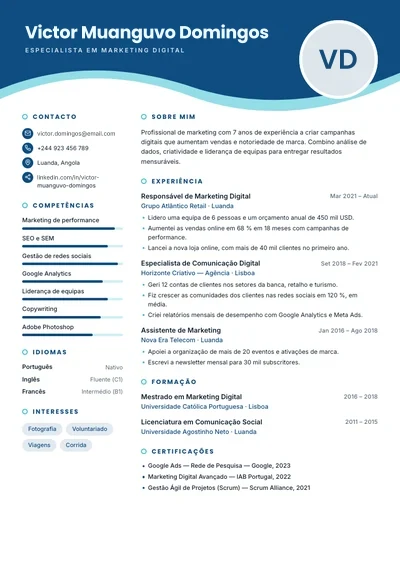
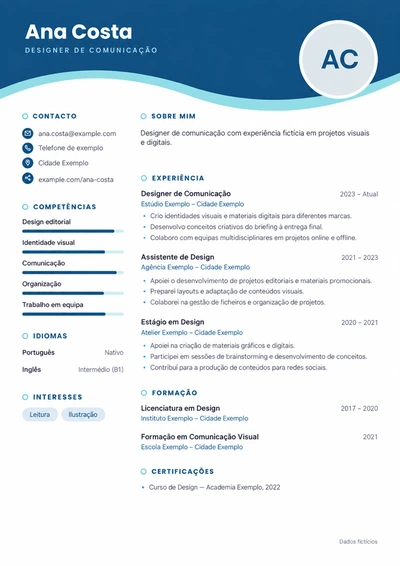
4.0v

diff --git a/privacidade.html b/privacidade.html
@@ -31,6 +31,7 @@
       <div class="container">
         <h1>Política de <em>privacidade.</em></h1>
         <p class="legal-meta">Versão 1.0 — Última atualização: 5 de outubro de 2026</p>
+        <p class="legal-meta">Contacto fictício de demonstração: apoio@example.com.</p>
         <nav class="legal-tabs" aria-label="Documentos legais">
         <a href="termos.html">Termos de utilização</a>
         <a href="privacidade.html" aria-current="page">Política de privacidade</a>
@@ -63,7 +64,7 @@
         <section id="s1">
           <h2><span class="n">01</span>Quem é responsável e como contactar</h2>
           <p>A Cv Dossier, empresa estabelecida em Angola, é responsável pelo tratamento dos dados pessoais relacionado com a prestação do CvDossier. Esta política explica como são utilizados os dados na aplicação para Android e iOS e no atendimento relacionado com o serviço.</p>
-          <p>O nosso site é <a href="https://cvdossier.app" target="_blank" rel="noopener">https://cvdossier.app</a>. Para questões de privacidade, pedidos sobre os teus dados ou apoio à utilização, escreve para <a href="mailto:geralcvdossier@gmail.com">geralcvdossier@gmail.com</a>.</p>
+          <p>O nosso site é <a href="https://cvdossier.app" target="_blank" rel="noopener">https://cvdossier.app</a>. Para questões de privacidade, pedidos sobre os teus dados ou apoio à utilização, escreve para <a href="mailto:apoio@example.com">apoio@example.com</a>.</p>
           <p>O CvDossier permite criar, editar, guardar e exportar currículos e cartas de apresentação, de motivação e de recomendação. Os Termos de Utilização explicam as condições do serviço, incluindo a versão gratuita com anúncios e a assinatura Premium.</p>
         </section>
         <section id="s2">
@@ -93,7 +94,7 @@
         <section id="s6">
           <h2><span class="n">06</span>Fornecedores e mensagens operacionais</h2>
           <p>O Supabase participa na autenticação e no armazenamento dos dados da conta, documentos e fotografias. O Resend participa no envio de e-mails operacionais, como mensagens de confirmação e recuperação de acesso, tratando o endereço do destinatário e o conteúdo necessário ao envio.</p>
-          <p>As mensagens automáticas podem ser enviadas por Cv Dossier &lt;noreply@cvdossier.app&gt;. Esse endereço não é o canal de apoio. Para obter resposta, utiliza <a href="mailto:geralcvdossier@gmail.com">geralcvdossier@gmail.com</a>.</p>
+          <p>As mensagens automáticas podem ser enviadas por Cv Dossier &lt;noreply@example.com&gt;. Esse endereço não é o canal de apoio. Para obter resposta, utiliza <a href="mailto:apoio@example.com">apoio@example.com</a>.</p>
           <p>Ao escreveres para o apoio, o teu endereço de e-mail, a mensagem e os anexos que enviares são tratados para atender o pedido. Esse canal utiliza Gmail, serviço da Google. Não envies palavras-passe, códigos de acesso ou informação que não seja necessária à resolução da questão.</p>
           <p>Os fornecedores podem recorrer a outros prestadores nas condições dos seus serviços. A sua intervenção não afasta as obrigações da Cv Dossier sobre escolha de fornecedores, legitimidade do tratamento e proteção dos dados.</p>
           <p>Podes consultar informação dos fornecedores em <a href="https://supabase.com/privacy" target="_blank" rel="noopener">https://supabase.com/privacy</a>, <a href="https://resend.com/legal/privacy-policy" target="_blank" rel="noopener">https://resend.com/legal/privacy-policy</a> e <a href="https://policies.google.com/privacy?hl=pt" target="_blank" rel="noopener">https://policies.google.com/privacy?hl=pt</a>.</p>
@@ -122,7 +123,7 @@
         <section id="s10">
           <h2><span class="n">10</span>Tratamento internacional e outras divulgações</h2>
           <p>A utilização de fornecedores de tecnologia pode envolver tratamento de dados fora de Angola ou do Brasil. A localização do utilizador ou do envio de um e-mail não significa que todas as operações dos fornecedores ocorram nesse mesmo país.</p>
-          <p>As transferências internacionais estão sujeitas às condições e garantias exigidas pela legislação aplicável, incluindo as regras angolanas e, quando pertinente, os mecanismos previstos na LGPD e na regulamentação da ANPD. A contratação de um fornecedor não substitui essas exigências. Podes pedir informação sobre os destinatários, as transferências relacionadas com os teus dados e as garantias aplicáveis através de <a href="mailto:geralcvdossier@gmail.com">geralcvdossier@gmail.com</a>.</p>
+          <p>As transferências internacionais estão sujeitas às condições e garantias exigidas pela legislação aplicável, incluindo as regras angolanas e, quando pertinente, os mecanismos previstos na LGPD e na regulamentação da ANPD. A contratação de um fornecedor não substitui essas exigências. Podes pedir informação sobre os destinatários, as transferências relacionadas com os teus dados e as garantias aplicáveis através de <a href="mailto:apoio@example.com">apoio@example.com</a>.</p>
           <p>Podemos divulgar informações quando isso for necessário para cumprir uma obrigação legal, responder legitimamente a uma autoridade competente ou exercer direitos em processo, limitando a divulgação ao que for legalmente exigido ou permitido. Não há, por esta cláusula, autorização para divulgar indiscriminadamente os teus documentos.</p>
         </section>
         <section id="s11">
@@ -137,14 +138,14 @@
           <p>Podes iniciar a eliminação da conta nas definições da aplicação. O procedimento prevê 30 dias durante os quais podes cancelar o pedido nas próprias definições. Entrar novamente na conta não cancela o pedido.</p>
           <p>Depois desse período, o servidor bloqueia o acesso aos dados e o processo de limpeza remove as fotografias, a conta e os documentos associados. O fim do período de cancelamento não significa que todas as operações de limpeza se concluam no mesmo instante.</p>
           <p>Antes de pedires a eliminação, exporta os documentos que pretendes conservar. As cópias já exportadas ou partilhadas não são apagadas automaticamente. Se tens uma assinatura Premium, gere também a sua continuidade ou o cancelamento na loja em que a contrataste; a eliminação da conta não substitui esse procedimento nem depende de o realizares primeiro.</p>
-          <p>Para pedir a eliminação sem utilizar a aplicação, ou se não conseguires aceder à conta, escreve para <a href="mailto:geralcvdossier@gmail.com">geralcvdossier@gmail.com</a> e indica que pretendes eliminar a tua conta CvDossier. Podemos solicitar apenas as informações necessárias para confirmar a identidade e evitar a eliminação indevida da conta de outra pessoa. Não envies a tua palavra-passe.</p>
+          <p>Para pedir a eliminação sem utilizar a aplicação, ou se não conseguires aceder à conta, escreve para <a href="mailto:apoio@example.com">apoio@example.com</a> e indica que pretendes eliminar a tua conta CvDossier. Podemos solicitar apenas as informações necessárias para confirmar a identidade e evitar a eliminação indevida da conta de outra pessoa. Não envies a tua palavra-passe.</p>
           <p>O procedimento de 30 dias não limita direitos legais que exijam outra resposta, como a eliminação ou o bloqueio de um tratamento ilícito. Esses pedidos são avaliados segundo o direito e o prazo que efetivamente lhes correspondem. A eventual conservação de informações por fundamento legal continua limitada nos termos da secção 11.</p>
         </section>
         <section id="s13">
           <h2><span class="n">13</span>Direitos sobre os dados pessoais</h2>
           <p>De acordo com a legislação aplicável e as condições de cada direito, podes pedir informação sobre o tratamento, aceder aos teus dados, corrigir informações inexatas ou incompletas e solicitar a eliminação ou o bloqueio de dados cujo tratamento não seja legítimo. Podes também exercer os direitos de oposição que a lei te reconheça.</p>
           <p>Quando a LGPD se aplica, os direitos incluem a confirmação do tratamento; acesso; correção; anonimização, bloqueio ou eliminação de dados desnecessários, excessivos ou tratados em desconformidade; portabilidade nos termos regulamentares; informação sobre entidades com quem houve partilha; informação sobre a possibilidade de não consentir e as consequências; eliminação de dados tratados com consentimento, ressalvadas as hipóteses legais de conservação; e revogação do consentimento. Incluem ainda os direitos legalmente previstos relativos a decisões tomadas unicamente com base em tratamento automatizado que afetem os teus interesses.</p>
-          <p>Para exercer um direito, escreve para <a href="mailto:geralcvdossier@gmail.com">geralcvdossier@gmail.com</a> e descreve o pedido. A identificação solicitada fica limitada ao necessário para responder com segurança. O exercício dos direitos não depende de uma assinatura Premium. Respondemos de acordo com os prazos e as condições legais aplicáveis e explicamos eventuais limites ou impossibilidades de atendimento.</p>
+          <p>Para exercer um direito, escreve para <a href="mailto:apoio@example.com">apoio@example.com</a> e descreve o pedido. A identificação solicitada fica limitada ao necessário para responder com segurança. O exercício dos direitos não depende de uma assinatura Premium. Respondemos de acordo com os prazos e as condições legais aplicáveis e explicamos eventuais limites ou impossibilidades de atendimento.</p>
           <p>Podes recorrer à Agência de Protecção de Dados de Angola, em <a href="https://apd.ao" target="_blank" rel="noopener">https://apd.ao</a>, ou à ANPD brasileira, em <a href="https://www.gov.br/anpd" target="_blank" rel="noopener">https://www.gov.br/anpd</a>, conforme a competência aplicável, sem prejuízo de outros meios de reclamação e tutela previstos na lei.</p>
         </section>
         <section id="s14">
@@ -157,11 +158,11 @@
           <p>A Cv Dossier é responsável por adotar medidas técnicas e organizativas adequadas para proteger os dados e limitar o acesso às pessoas e aos serviços que dele necessitem para as finalidades legítimas. A utilização de fornecedores não afasta essa responsabilidade.</p>
           <p>Protege as tuas credenciais, utiliza as opções de recuperação disponíveis e comunica suspeitas de acesso indevido ao apoio. Nenhum sistema elimina todos os riscos, mas essa limitação não exclui as nossas obrigações de prevenção, resposta e comunicação de incidentes nos casos previstos na lei.</p>
           <p>Podemos atualizar esta política quando o serviço ou as condições de tratamento mudarem. Indicamos a versão e a data de atualização e comunicamos alterações relevantes por meios adequados. Uma atualização não vale como consentimento retroativo nem afasta a necessidade de informar ou obter consentimento específico quando a lei o exigir.</p>
-          <p>Para esclarecimentos ou pedidos, o contacto é <a href="mailto:geralcvdossier@gmail.com">geralcvdossier@gmail.com</a>.</p>
+          <p>Para esclarecimentos ou pedidos, o contacto é <a href="mailto:apoio@example.com">apoio@example.com</a>.</p>
         </section>
         <div class="legal-contact">
           <h3>Tens alguma dúvida?</h3>
-          <p>Escreve para <a href="mailto:geralcvdossier@gmail.com">geralcvdossier@gmail.com</a>.</p>
+          <p>Escreve para <a href="mailto:apoio@example.com">apoio@example.com</a>.</p>
         </div>
       </article>
     </div>
@@ -170,7 +171,7 @@
   <footer class="site-footer">
     <div class="container footer-bottom" style="margin-top:0;border-top:0;padding-top:0">
       <span>© <span data-year>2026</span> Cv Dossier. Todos os direitos reservados.</span>
-      <span><a href="mailto:geralcvdossier@gmail.com">geralcvdossier@gmail.com</a></span>
+      <span><a href="mailto:apoio@example.com">apoio@example.com</a></span>
     </div>
   </footer>
   <script src="script.js" defer></script>

diff --git a/termos.html b/termos.html
@@ -31,6 +31,7 @@
       <div class="container">
         <h1>Termos de <em>utilização.</em></h1>
         <p class="legal-meta">Versão 1.0 — Última atualização: 5 de outubro de 2026</p>
+        <p class="legal-meta">Contacto fictício de demonstração: apoio@example.com.</p>
         <nav class="legal-tabs" aria-label="Documentos legais">
         <a href="termos.html" aria-current="page">Termos de utilização</a>
         <a href="privacidade.html">Política de privacidade</a>
@@ -62,7 +63,7 @@
         <section id="s1">
           <h2><span class="n">01</span>O serviço e estes termos</h2>
           <p>O CvDossier é uma aplicação para Android e iOS que permite criar, personalizar e exportar currículos e documentos profissionais, incluindo cartas de apresentação, de motivação e de recomendação.</p>
-          <p>A empresa responsável pela aplicação é Cv Dossier, estabelecida em Angola. O site do CvDossier é <a href="https://cvdossier.app" target="_blank" rel="noopener">https://cvdossier.app</a> e o contacto de apoio é <a href="mailto:geralcvdossier@gmail.com">geralcvdossier@gmail.com</a>.</p>
+          <p>A empresa responsável pela aplicação é Cv Dossier, estabelecida em Angola. O site do CvDossier é <a href="https://cvdossier.app" target="_blank" rel="noopener">https://cvdossier.app</a> e o contacto de apoio é <a href="mailto:apoio@example.com">apoio@example.com</a>.</p>
           <p>Estes termos estabelecem as condições de utilização da aplicação e as responsabilidades relacionadas com os documentos que nela preparas. A Política de Privacidade explica o tratamento dos dados pessoais e deve ser lida em conjunto com estes termos.</p>
         </section>
         <section id="s2">
@@ -123,7 +124,7 @@
           <p>Se a oferta incluir renovação automática, as cobranças seguintes seguem as condições apresentadas na contratação e as regras aplicáveis da loja. Podes cancelar a renovação através da loja onde contrataste. A data em que o cancelamento produz efeitos e o período de acesso já pago são os indicados na gestão da assinatura, sem prejuízo de direitos legais que se apliquem ao teu caso.</p>
           <p>Para gerir ou cancelar no Google Play, consulta <a href="https://support.google.com/googleplay/answer/7018481?hl=pt" target="_blank" rel="noopener">https://support.google.com/googleplay/answer/7018481?hl=pt</a>. Para gerir ou cancelar na Apple, consulta <a href="https://support.apple.com/pt-br/118428" target="_blank" rel="noopener">https://support.apple.com/pt-br/118428</a>.</p>
           <p>Cancelar a renovação, pedir um reembolso e eliminar a conta são operações diferentes. Desinstalar a aplicação ou pedir a eliminação da conta não cancela necessariamente a assinatura na loja. Se pretendes evitar novas cobranças, cancela também a assinatura no Google Play ou na App Store. Não condicionamos o pedido de eliminação da conta ao cancelamento da assinatura.</p>
-          <p>Os pedidos de reembolso são apreciados segundo a legislação aplicável, as circunstâncias da compra e os procedimentos da loja. Estes termos não excluem direitos de arrependimento, restituição ou reparação que a lei te reconheça. Podes consultar os procedimentos do Google Play em <a href="https://support.google.com/googleplay/answer/2479637?hl=pt" target="_blank" rel="noopener">https://support.google.com/googleplay/answer/2479637?hl=pt</a> e da Apple em <a href="https://support.apple.com/pt-br/118223" target="_blank" rel="noopener">https://support.apple.com/pt-br/118223</a>. Para problemas com o benefício Premium na aplicação, contacta <a href="mailto:geralcvdossier@gmail.com">geralcvdossier@gmail.com</a>.</p>
+          <p>Os pedidos de reembolso são apreciados segundo a legislação aplicável, as circunstâncias da compra e os procedimentos da loja. Estes termos não excluem direitos de arrependimento, restituição ou reparação que a lei te reconheça. Podes consultar os procedimentos do Google Play em <a href="https://support.google.com/googleplay/answer/2479637?hl=pt" target="_blank" rel="noopener">https://support.google.com/googleplay/answer/2479637?hl=pt</a> e da Apple em <a href="https://support.apple.com/pt-br/118223" target="_blank" rel="noopener">https://support.apple.com/pt-br/118223</a>. Para problemas com o benefício Premium na aplicação, contacta <a href="mailto:apoio@example.com">apoio@example.com</a>.</p>
           <p>A contratação do Premium não é necessária para exercer direitos relativos aos dados pessoais. A remoção dos anúncios também não elimina o tratamento necessário para manter a conta, guardar os documentos ou gerir a assinatura, conforme explicado na Política de Privacidade.</p>
           <p>Os anúncios apresentam ofertas de terceiros. A sua exibição não constitui uma recomendação profissional nem uma garantia de contratação, emprego ou resultado por parte da Cv Dossier. Ao seguires um anúncio, consulta as condições e a política de privacidade do destino. Esta informação não afasta a responsabilidade que a lei atribua à Cv Dossier pela publicidade apresentada no serviço.</p>
         </section>
@@ -146,7 +147,7 @@
           <p>Antes de pedir a eliminação, exporta os documentos que pretendes conservar. Os ficheiros já exportados permanecem no destino onde foram guardados ou partilhados.</p>
           <p>Se tens Premium, verifica também a assinatura na loja onde a contrataste. O pedido de eliminação da conta não substitui a gestão ou o cancelamento da assinatura, conforme a secção 9.</p>
           <p>A Política de Privacidade explica os efeitos do pedido e os direitos relativos aos dados pessoais. O período deste procedimento não limita os direitos que a legislação reconhece, incluindo pedidos que tenham de receber tratamento diferente.</p>
-          <p>Se não conseguires aceder à conta ou encontrares dificuldades no procedimento, contacta <a href="mailto:geralcvdossier@gmail.com">geralcvdossier@gmail.com</a>. O apoio é complementar ao percurso de eliminação na aplicação.</p>
+          <p>Se não conseguires aceder à conta ou encontrares dificuldades no procedimento, contacta <a href="mailto:apoio@example.com">apoio@example.com</a>. O apoio é complementar ao percurso de eliminação na aplicação.</p>
         </section>
         <section id="s13">
           <h2><span class="n">13</span>Atualizações e informação</h2>
@@ -157,11 +158,11 @@
           <h2><span class="n">14</span>Legislação, reclamações e contacto</h2>
           <p>Estes termos devem ser interpretados de acordo com a legislação aplicável à relação entre a Cv Dossier e o utilizador, incluindo as normas de proteção de dados e de defesa do consumidor que sejam aplicáveis em Angola ou no Brasil.</p>
           <p>Não é imposto um foro exclusivo que retire direitos de acesso aos tribunais ou às autoridades competentes. Podes apresentar reclamações pelos meios reconhecidos pela lei; o contacto com o apoio não é uma condição para exercer direitos que não dependam desse contacto.</p>
-          <p>Para questões sobre a aplicação, estes termos ou os teus documentos, contacta <a href="mailto:geralcvdossier@gmail.com">geralcvdossier@gmail.com</a>. O site do CvDossier é <a href="https://cvdossier.app" target="_blank" rel="noopener">https://cvdossier.app</a>.</p>
+          <p>Para questões sobre a aplicação, estes termos ou os teus documentos, contacta <a href="mailto:apoio@example.com">apoio@example.com</a>. O site do CvDossier é <a href="https://cvdossier.app" target="_blank" rel="noopener">https://cvdossier.app</a>.</p>
         </section>
         <div class="legal-contact">
           <h3>Tens alguma dúvida?</h3>
-          <p>Escreve para <a href="mailto:geralcvdossier@gmail.com">geralcvdossier@gmail.com</a>.</p>
+          <p>Escreve para <a href="mailto:apoio@example.com">apoio@example.com</a>.</p>
         </div>
       </article>
     </div>
@@ -170,7 +171,7 @@
   <footer class="site-footer">
     <div class="container footer-bottom" style="margin-top:0;border-top:0;padding-top:0">
       <span>© <span data-year>2026</span> Cv Dossier. Todos os direitos reservados.</span>
-      <span><a href="mailto:geralcvdossier@gmail.com">geralcvdossier@gmail.com</a></span>
+      <span><a href="mailto:apoio@example.com">apoio@example.com</a></span>
     </div>
   </footer>
   <script src="script.js" defer></script>

diff --git a/index.html b/index.html
@@ -86,7 +86,7 @@
               <span class="island"></span>
             </div>
           </div>
-          <div class="layer" data-depth="44"><div class="chip chip-pdf"><i class="fi fi-pdf">PDF</i><span>Pronto a enviar<small>CV — Victor Domingos.pdf</small></span></div></div>
+          <div class="layer" data-depth="44"><div class="chip chip-pdf"><i class="fi fi-pdf">PDF</i><span>Pronto a enviar<small>CV — Ana Costa.pdf</small></span></div></div>
           <div class="layer" data-depth="36"><div class="chip chip-sync"><svg viewBox="0 0 24 24"><path d="M5 12.5l4.5 4.5L19 7.5" fill="none" stroke="currentColor" stroke-width="2.6" stroke-linecap="round" stroke-linejoin="round"/></svg>Alterações guardadas</div></div>
           <div class="layer" data-depth="28"><div class="chip chip-palette"><span style="background:#0A2A6B"></span><span style="background:#2B8AF7"></span><span style="background:#1F7A4D"></span><span style="background:#C2562F"></span></div></div>
         </div>
@@ -152,14 +152,14 @@
           </div>
         </div>
       </div>
-      <p class="fine center">Exemplos com dados fictícios.</p>
+      
     </section>
 
     <!-- Benefícios -->
     <section class="section" id="beneficios">
       <div class="container">
         <div class="section-head">
-          <p class="kicker reveal">Porquê o CvDossier</p>
+          <p class="kicker reveal">Porquê o CvDossier?</p>
           <h2 class="reveal">Dá forma à tua <em>experiência.</em></h2>
           <p class="sub reveal">Quer estejas a preparar o primeiro currículo ou a atualizar o teu percurso, o CvDossier ajuda-te a organizar e apresentar o que tens para oferecer.</p>
         </div>
@@ -188,7 +188,7 @@
             <div class="mini-cv-wrap" aria-hidden="true">
               <div class="mini-cv" id="miniCv">
                 <aside class="mc-side">
-                  <span class="mc-avatar">VD</span>
+                  <span class="mc-avatar">AC</span>
                   <span class="mc-h">Contacto</span>
                   <i style="width:80%"></i><i style="width:64%"></i><i style="width:72%"></i>
                   <span class="mc-h">Competências</span>
@@ -197,8 +197,8 @@
                   <i style="width:60%"></i><i style="width:48%"></i>
                 </aside>
                 <div class="mc-main">
-                  <strong class="mc-name">Victor Muanguvo Domingos</strong>
-                  <span class="mc-role">Especialista em Marketing Digital</span>
+                  <strong class="mc-name">Ana Costa</strong>
+                  <span class="mc-role">Designer de Comunicação</span>
                   <span class="mc-t">Perfil</span>
                   <i></i><i></i><i style="width:76%"></i>
                   <span class="mc-t">Experiência</span>
@@ -396,7 +396,7 @@
         <div class="section-head">
           <p class="kicker reveal">Perguntas frequentes</p>
           <h2 class="reveal">Antes de <em>começar.</em></h2>
-          <p class="sub reveal">Ainda tens dúvidas? Escreve para <a href="mailto:geralcvdossier@gmail.com">geralcvdossier@gmail.com</a>.</p>
+          <p class="sub reveal">Ainda tens dúvidas? Escreve para <a href="mailto:apoio@example.com">apoio@example.com</a>.</p>
         </div>
         <div class="faq-list reveal">
           <details>
@@ -487,7 +487,8 @@
       </nav>
       <div>
         <h4>Apoio</h4>
-        <a href="mailto:geralcvdossier@gmail.com">geralcvdossier@gmail.com</a>
+        <p class="fine">Contacto fictício de exemplo.</p>
+        <a href="mailto:apoio@example.com">apoio@example.com</a>
       </div>
     </div>
     <div class="container footer-bottom">

diff --git a/eliminacao-de-conta.html b/eliminacao-de-conta.html
@@ -31,6 +31,7 @@
       <div class="container">
         <h1>Gestão e eliminação de <em>conta.</em></h1>
         <p class="legal-meta">Como eliminar a tua conta CvDossier e o que acontece aos teus dados.</p>
+        <p class="legal-meta">Contacto fictício de demonstração: apoio@example.com.</p>
         <nav class="legal-tabs" aria-label="Documentos legais">
         <a href="termos.html">Termos de utilização</a>
         <a href="privacidade.html">Política de privacidade</a>
@@ -78,7 +79,7 @@
 
         <section id="sem-acesso">
           <h2>Não consegues aceder à app?</h2>
-          <p>Para pedir a eliminação sem utilizar a aplicação, ou se não conseguires aceder à conta, escreve para <a href="mailto:geralcvdossier@gmail.com?subject=Eliminar%20a%20minha%20conta%20CvDossier">geralcvdossier@gmail.com</a> e indica que pretendes eliminar a tua conta CvDossier.</p>
+          <p>Para pedir a eliminação sem utilizar a aplicação, ou se não conseguires aceder à conta, escreve para <a href="mailto:apoio@example.com?subject=Eliminar%20a%20minha%20conta%20CvDossier">apoio@example.com</a> e indica que pretendes eliminar a tua conta CvDossier.</p>
           <p>Podemos pedir apenas as informações necessárias para confirmar a tua identidade e evitar a eliminação indevida da conta de outra pessoa. <strong>Não envies a tua palavra-passe.</strong></p>
         </section>
 
@@ -90,7 +91,7 @@
 
         <div class="legal-contact">
           <h3>Precisas de ajuda?</h3>
-          <p>Escreve para <a href="mailto:geralcvdossier@gmail.com">geralcvdossier@gmail.com</a>.</p>
+          <p>Escreve para <a href="mailto:apoio@example.com">apoio@example.com</a>.</p>
         </div>
       </article>
     </div>
@@ -99,7 +100,7 @@
   <footer class="site-footer">
     <div class="container footer-bottom" style="margin-top:0;border-top:0;padding-top:0">
       <span>© <span data-year>2026</span> Cv Dossier. Todos os direitos reservados.</span>
-      <span><a href="mailto:geralcvdossier@gmail.com">geralcvdossier@gmail.com</a></span>
+      <span><a href="mailto:apoio@example.com">apoio@example.com</a></span>
     </div>
   </footer>
   <script src="script.js" defer></script>

diff --git a/gerar-paginas-legais.py b/gerar-paginas-legais.py
@@ -12,7 +12,7 @@ from pathlib import Path
 
 AQUI = Path(__file__).resolve().parent
 DOCS = AQUI.parent / 'departamentos' / 'juridico-e-privacidade' / 'documentos'
-EMAIL = 'geralcvdossier@gmail.com'
+EMAIL = 'apoio@example.com'
 
 TABS = [
     ('termos.html', 'Termos de utilização'),
@@ -22,6 +22,9 @@ TABS = [
 
 
 def linkify(text):
+    # Os contactos de demonstração permanecem fictícios ao regenerar.
+    text = re.sub(r'[\w.+-]+@[\w-]+\.[\w.]+\w',
+                  lambda m: 'noreply@example.com' if m[0].startswith('noreply@') else EMAIL, text)
     text = html.escape(text, quote=False)
     text = re.sub(r'(https?://[^\s<]+?)([.,;:)]?)(?=\s|$)',
                   r'<a href="\1" target="_blank" rel="noopener">\1</a>\2', text)
@@ -84,6 +87,7 @@ def page(file, title_html, plain_title, description, meta, body):
       <div class="container">
         <h1>{title_html}</h1>
         <p class="legal-meta">{meta}</p>
+        <p class="legal-meta">Contacto fictício de demonstração: apoio@example.com.</p>
         <nav class="legal-tabs" aria-label="Documentos legais">
 {tabs}
         </nav>
